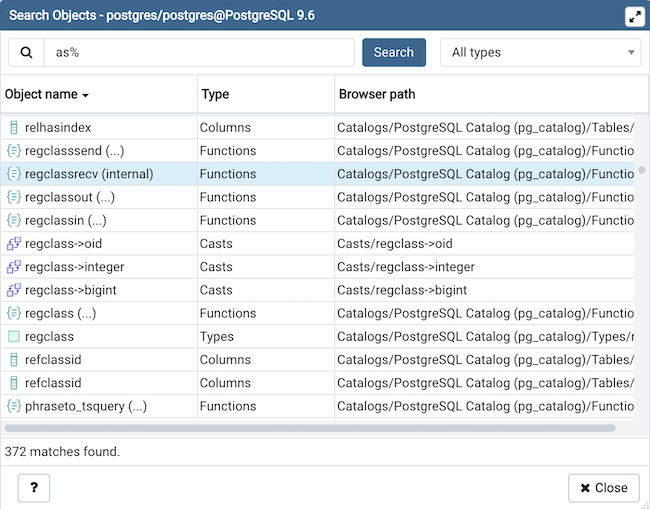
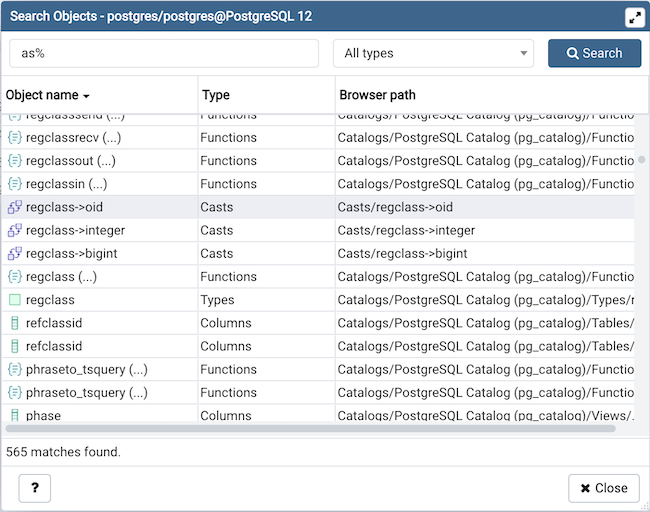
Search object UI improvements. Fixes #5493

Changed region(s): [[0.0, 0.1473, 1.0, 1.0], [0.0, 0.0, 1.0, 0.1473]]

diff --git a/web/pgadmin/tools/search_objects/static/js/search_objects_dialog_wrapper.js b/web/pgadmin/tools/search_objects/static/js/search_objects_dialog_wrapper.js
@@ -64,20 +64,17 @@ export default class SearchObjectsDialogWrapper extends DialogWrapper {
       <div class="d-flex flex-column w-100 h-100">
         <div class="p-2">
           <div class="row">
-            <div class="col-8 d-flex">
+            <div class="col-6">
               <div class="input-group pgadmin-controls">
-                  <div class="input-group-prepend">
-                      <span class="input-group-text fa fa-search" id="labelSearch" aria-label="` + gettext('Search') + `"></span>
-                  </div>
                   <input type="search" class="form-control" id="txtGridSearch" placeholder="` + gettext('Type at least 3 characters') + `"
                     tabindex="0" aria-describedby="labelSearch" aria-labelledby="labelSearch" autocomplete="off">
               </div>
-              <div class="ml-2">
-                <button class="btn btn-primary btn-search" disabled>`+ gettext('Search') +`</button>
-              </div>
             </div>
-            <div class="col-4">
+            <div class="col-4 d-flex">
               <select aria-label="` + gettext('Object types') + `" class="node-types"></select>
+            </div>
+            <div class="col-2">
+              <button class="btn btn-primary btn-search w-100" disabled><span class="fa fa-search"></span>&nbsp;`+ gettext('Search') +`</button>
             </div>
           </div>
         </div>

diff --git a/docs/en_US/search_objects.rst b/docs/en_US/search_objects.rst
@@ -17,14 +17,17 @@ shortcut (default ALT+SHIFT+S).
 
 The minimum pattern length are 3 characters. The search performed is
 non-casesensitive and will find all objets whose name contains the pattern.
-You can only search for object names.
+You can only search for object names currently. Examples are: abc,
+%ab%, ab%c, %%%, etc.
 
 The result is presented in the grid with object name, object type and
 the object tree path in the :ref:`browser <tree_control>`. You can double
 click on a result row to select the object in the
 :ref:`browser <tree_control>`. If the object is greyed out, this means that you
 have not enabled those object types in the :ref:`preferences <preferences>`,
-so you can't double click on it.
+so you can't double click on it. You can click on the ellipsis appended to
+the function and procedure names to see there arguments.
+
 
 You can filter based on a particular object type by selecting one from the
 object type dropdown. If the search button is hit when one of the object type

diff --git a/docs/en_US/release_notes_4_22.rst b/docs/en_US/release_notes_4_22.rst
@@ -20,6 +20,7 @@ Housekeeping
 | `Issue #5443 <https://redmine.postgresql.org/issues/5443>`_ -  Remove support for Python 2.
 | `Issue #5444 <https://redmine.postgresql.org/issues/5444>`_ -  Cleanup Python detection in the runtime project file.
 | `Issue #5455 <https://redmine.postgresql.org/issues/5455>`_ -  Refactor pgAdmin4.py so it can be imported and is a lot more readable.
+| `Issue #5493 <https://redmine.postgresql.org/issues/5493>`_ -  Search object UI improvements.
 
 Bug fixes
 *********
